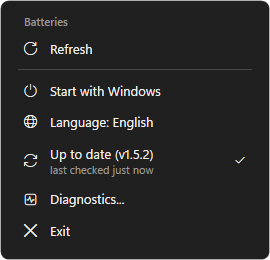
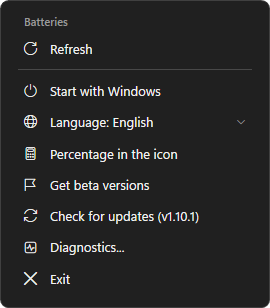
New screenshots, light and dark

diff --git a/index.html b/index.html
@@ -91,8 +91,8 @@
     <div class="meta"><span id="ver">Latest release</span><span>Windows 10 / 11</span><span>Free and open source</span></div>
 
     <div class="shots">
-      <img src="flyout.png" width="320" alt="Flyout with battery levels">
-      <img src="menu.png" width="270" alt="Right-click menu">
+      <picture><source media="(prefers-color-scheme: light)" srcset="flyout-light.png"><img src="flyout.png" width="320" alt="Flyout with battery levels and the time left"></picture>
+      <picture><source media="(prefers-color-scheme: light)" srcset="menu-light.png"><img src="menu.png" width="270" alt="Right-click menu"></picture>
     </div>
   </header>
 
